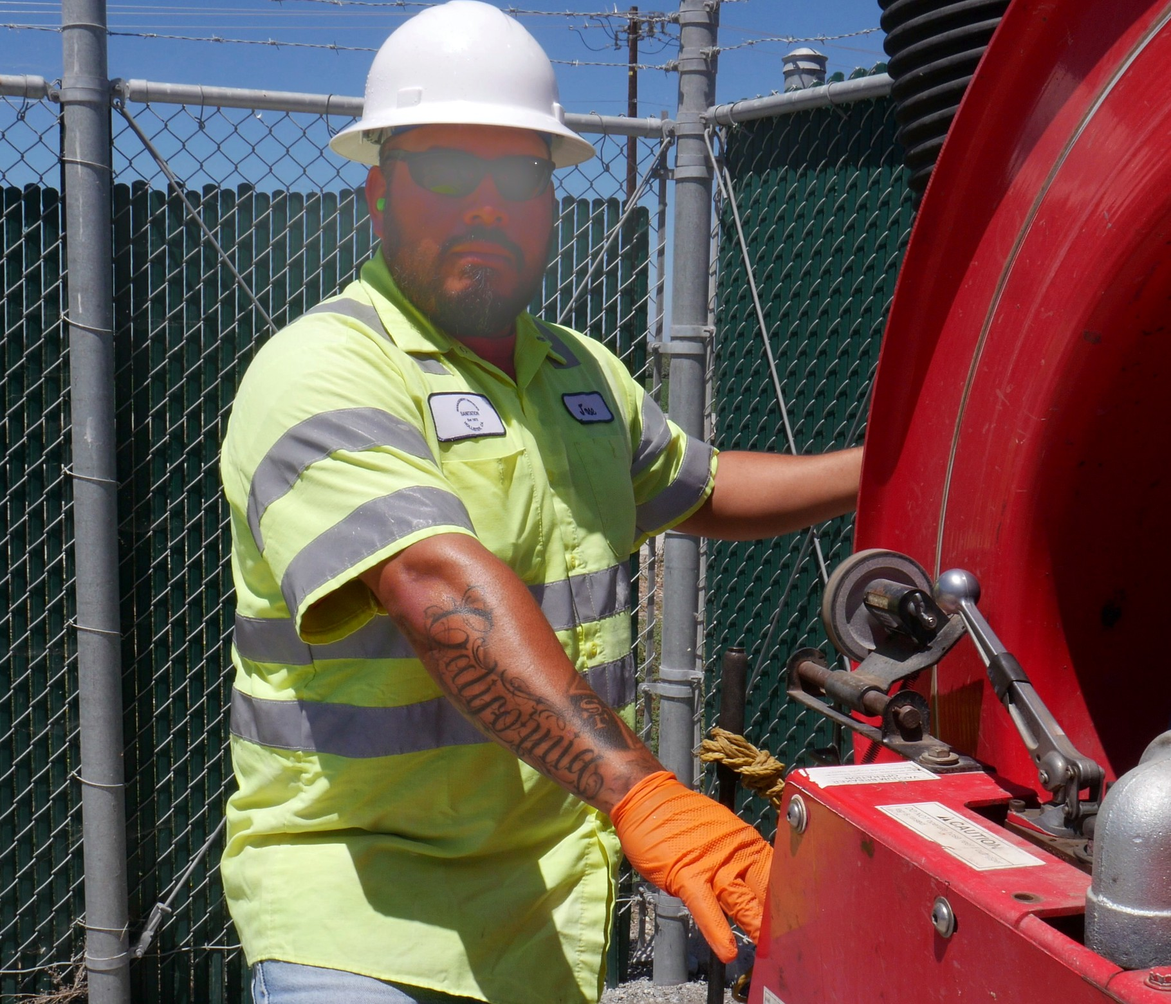
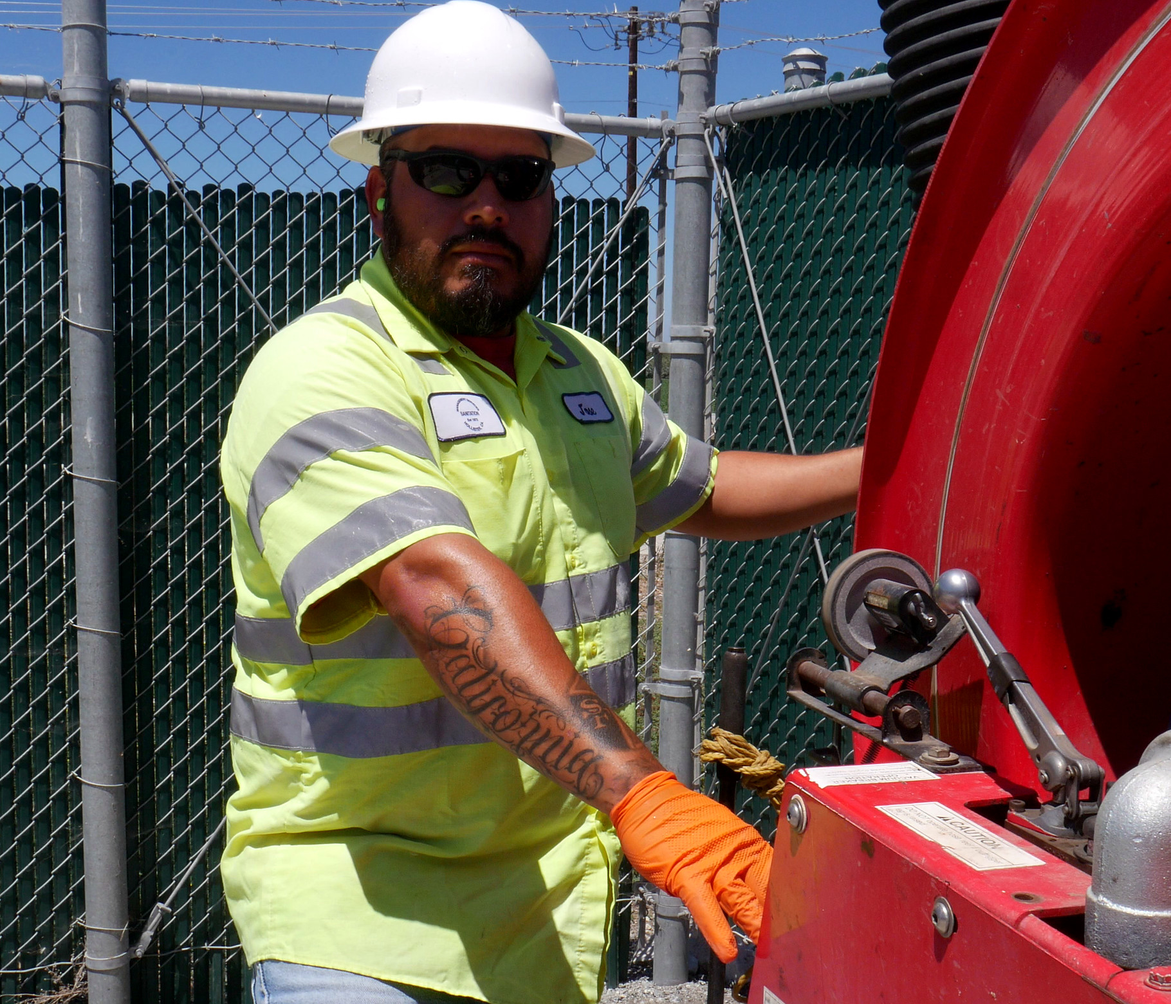
Restore Juan Lopez pre-brighten portrait and drop Maintenance Worker II title.

Changed region(s): [[0.1231, 0.123, 0.5538, 0.369]]

diff --git a/index.html b/index.html
@@ -862,8 +862,8 @@
 
                 <figure class="work-figure">
                     <img src="photos/storm-juan.jpg"
-                         alt="Juan Lopez, Maintenance Worker II with the City of Hollister Storm crew, stands beside red Vactor equipment in a high-visibility shirt and hard hat." loading="lazy" decoding="async" width="1820" height="1561">
-                    <figcaption>Juan Lopez, Maintenance Worker II. Storm work is loud, heavy and specialized. It is not work you hand to whoever is cheapest.</figcaption>
+                         alt="Juan Lopez with the City of Hollister Storm crew, stands beside red Vactor equipment in a high-visibility shirt and hard hat." loading="lazy" decoding="async" width="1820" height="1561">
+                    <figcaption>Juan Lopez. Storm work is loud, heavy and specialized. It is not work you hand to whoever is cheapest.</figcaption>
                 </figure>
 
                 <div class="card work-copy">
